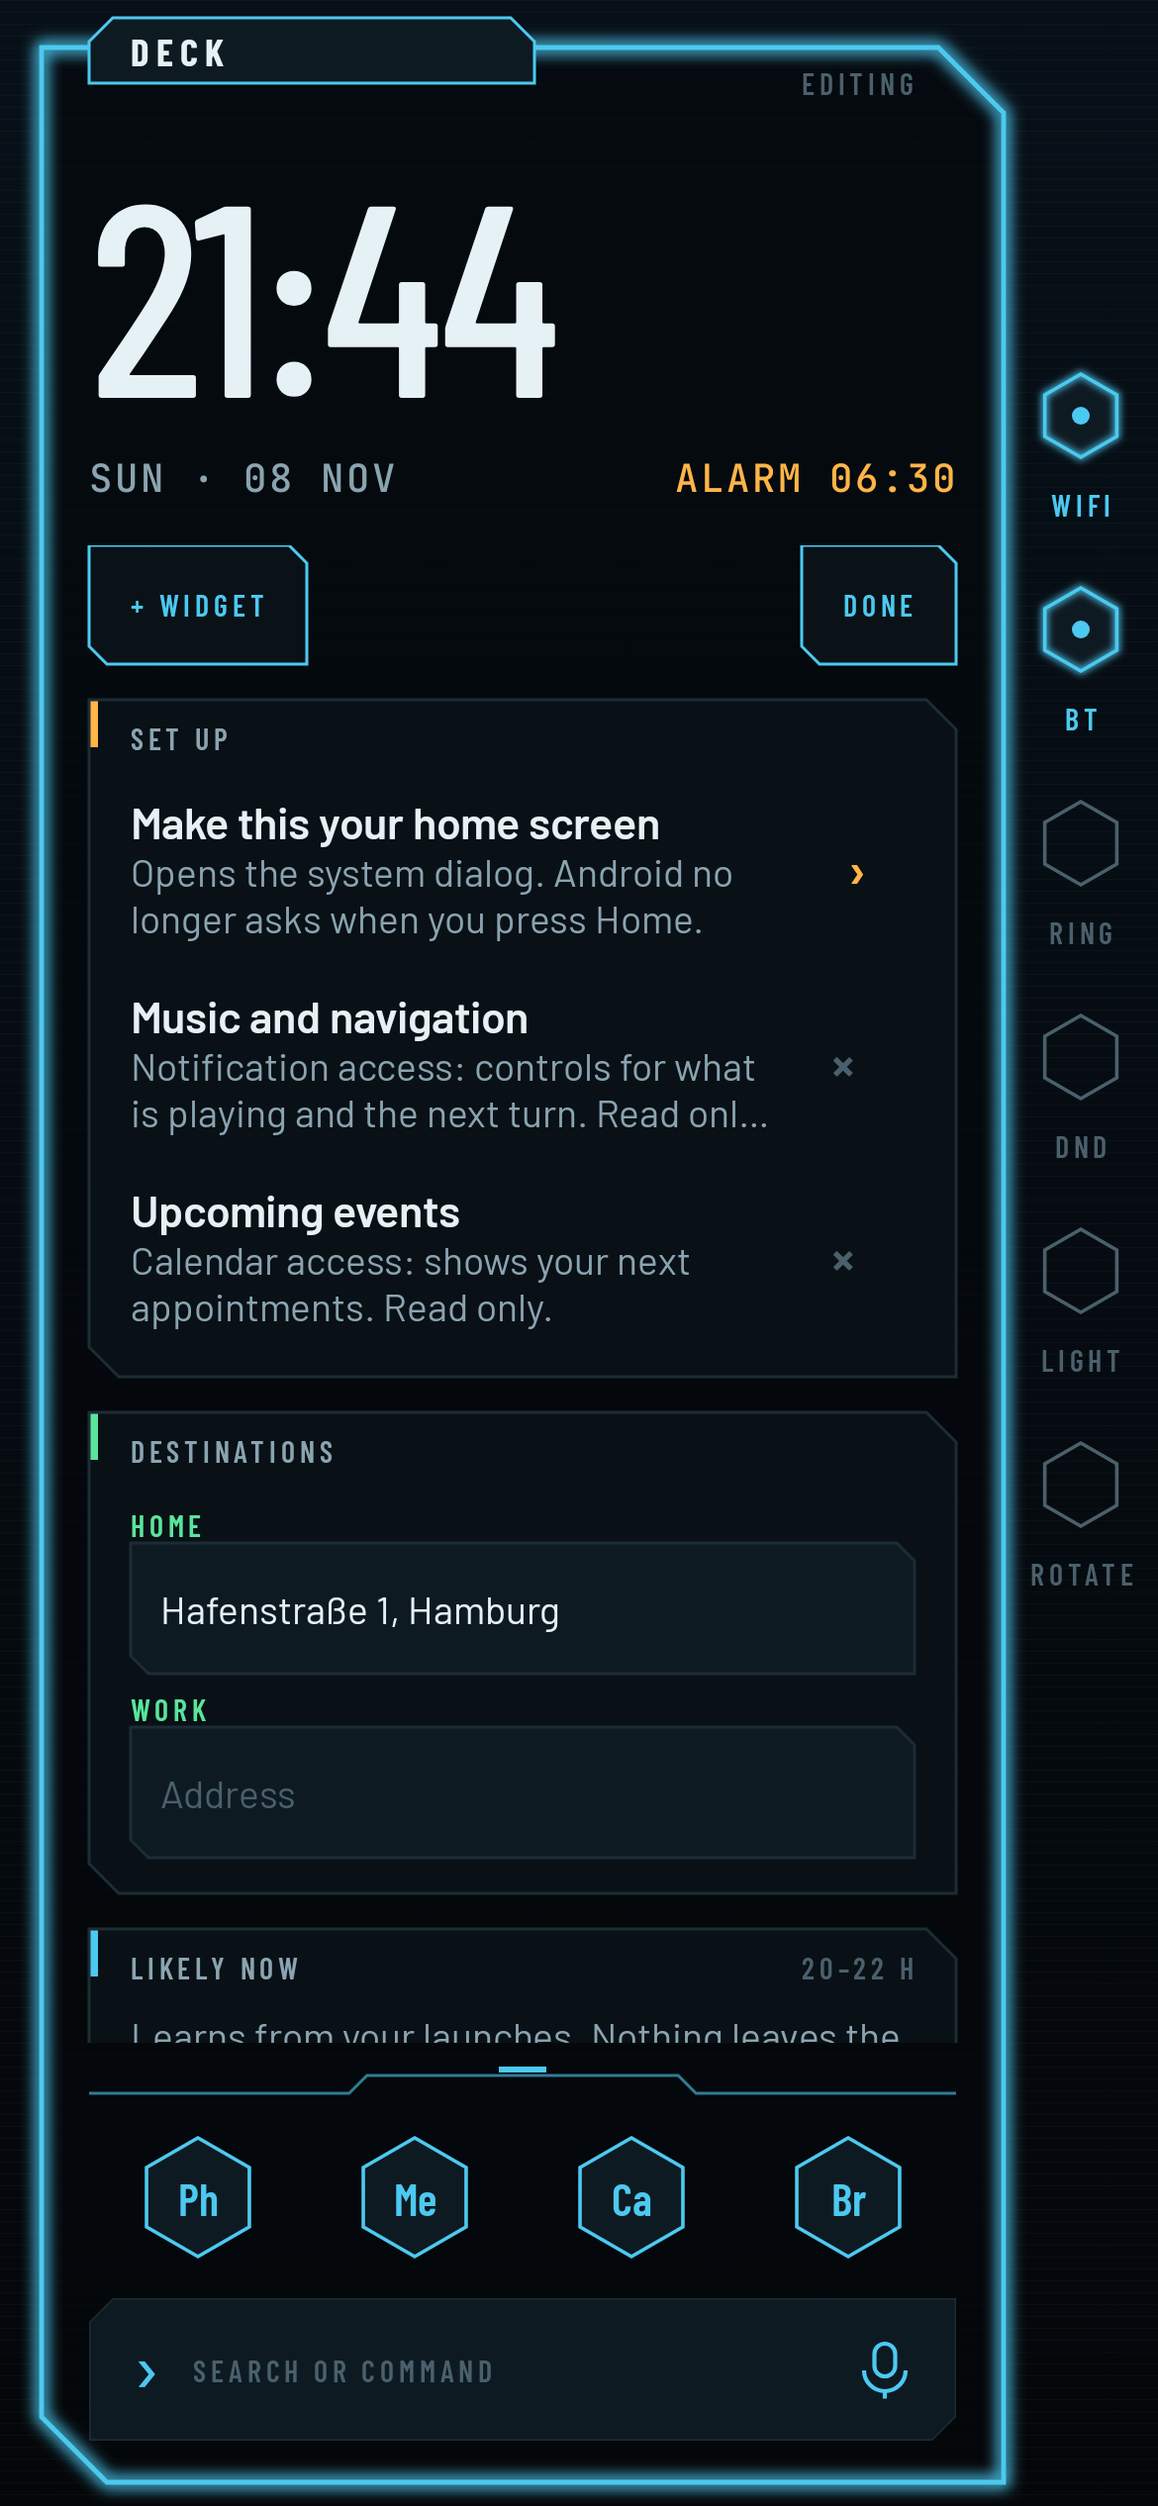
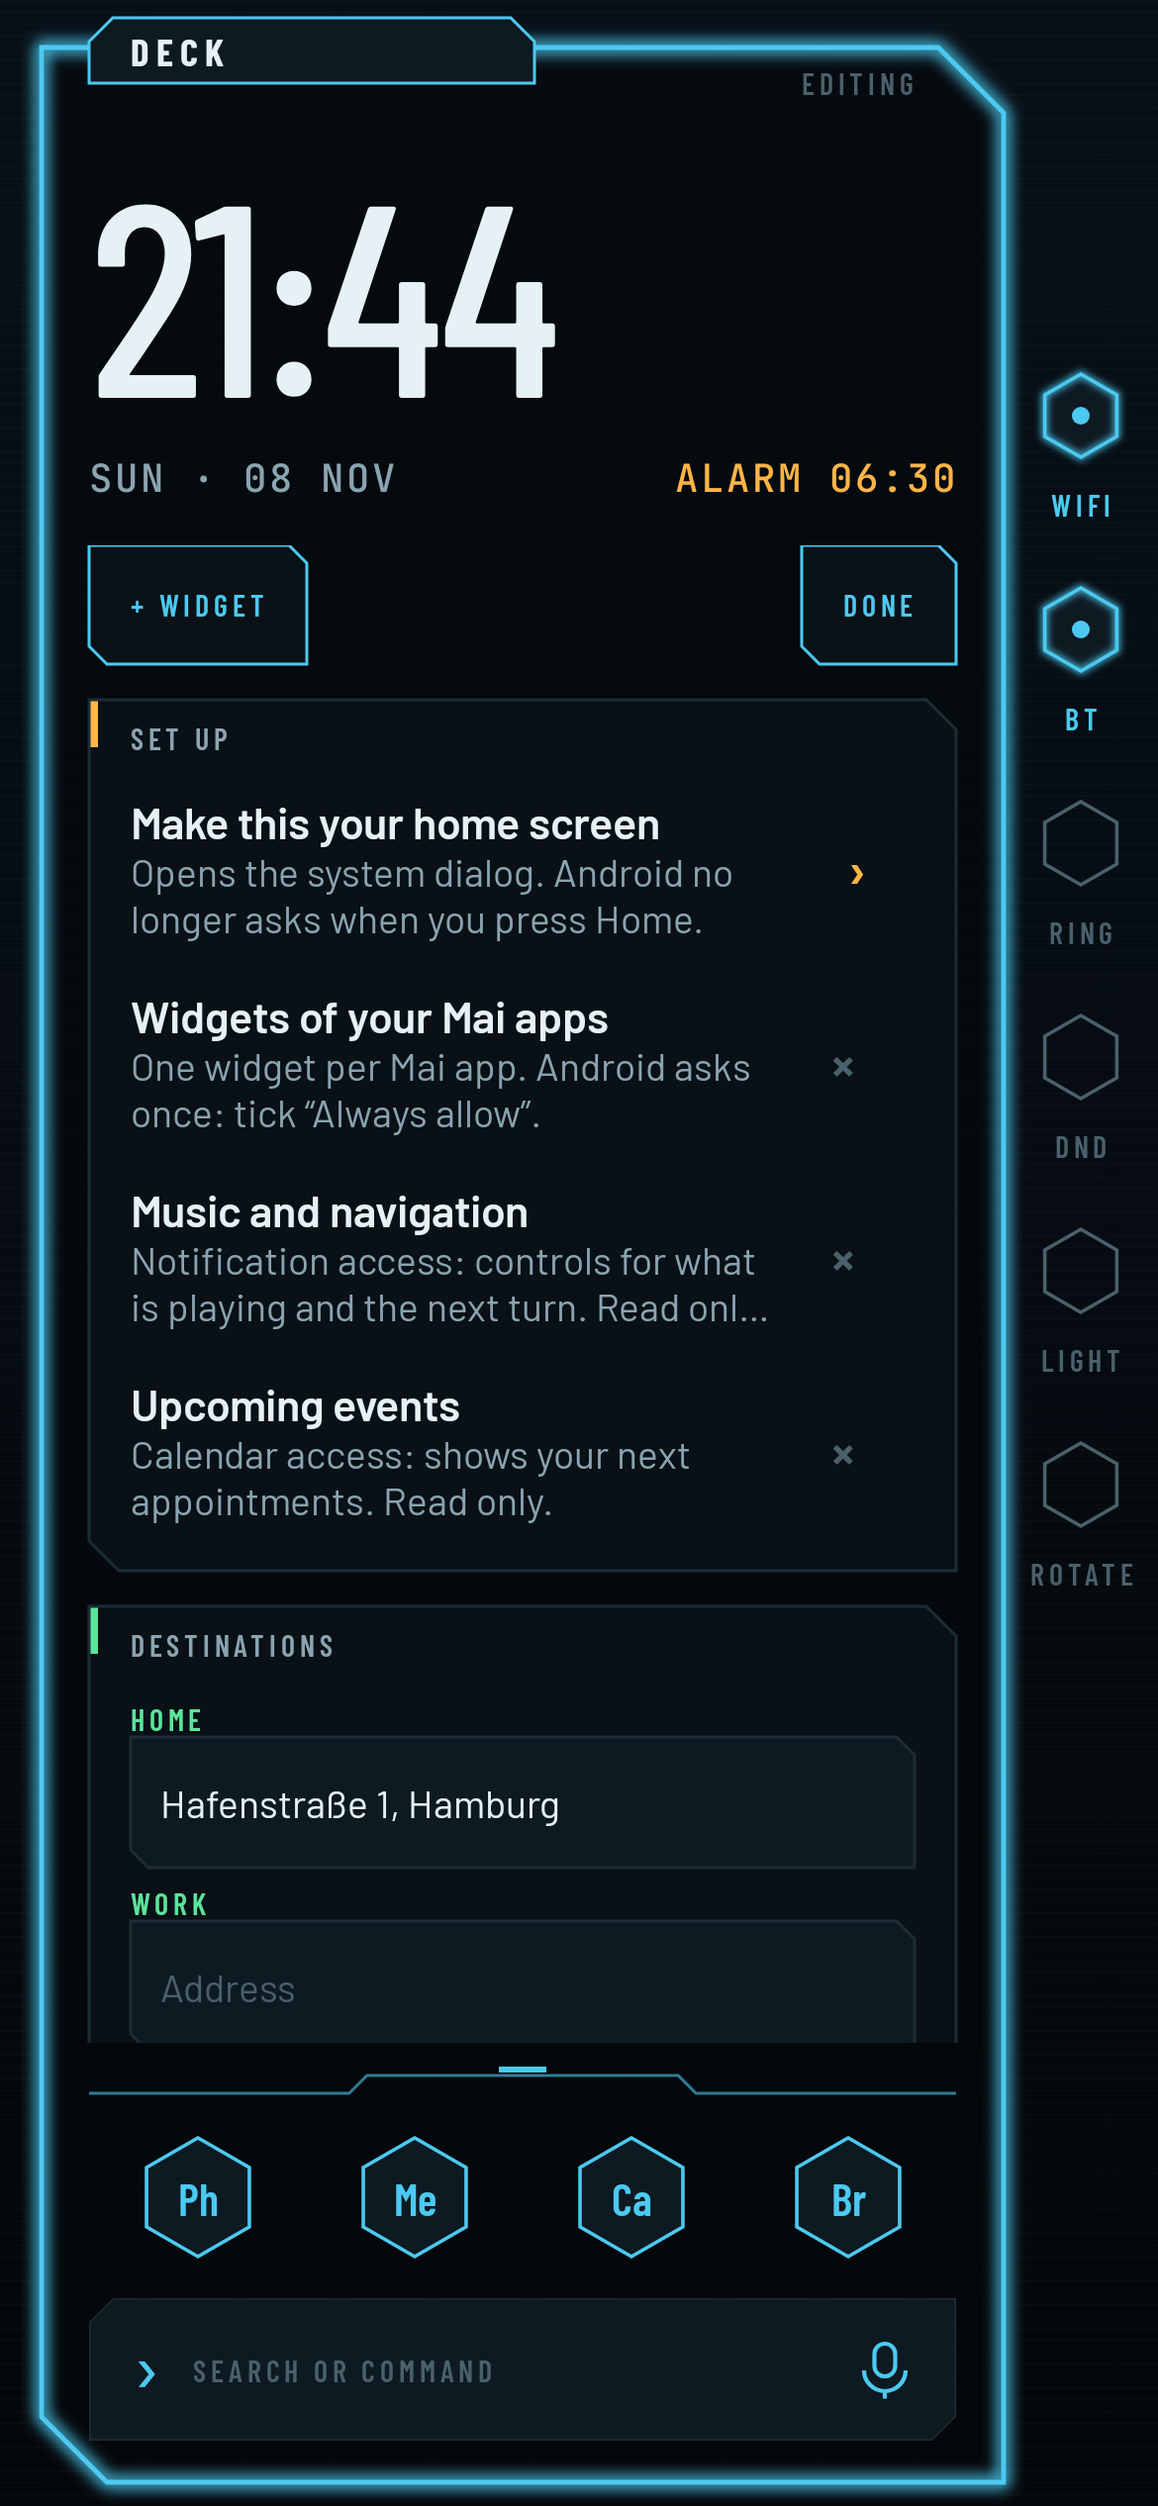
Deck: add one widget of each installed Mai app automatically
- domain/MaiWidgets: pick the preferred widget per Mai app (space.mai.*), skip apps already on the Deck or seen before; tests
- Bind silently when the launcher may; otherwise a "Widgets of your Mai apps" setup item asks once via the system dialog and chains the rest
- Removed Mai widgets stay removed (prefs key mai_widgets_seen); new Mai apps are picked up when the Deck becomes visible

Claude-Session: https://claude.ai/code/session_013mqfdzVBp2TXnYmtApBVAF

diff --git a/app/src/main/java/space/mai/mai_launcher/ui/LauncherViewModel.kt b/app/src/main/java/space/mai/mai_launcher/ui/LauncherViewModel.kt
@@ -23,6 +23,8 @@ import space.mai.mai_launcher.data.LauncherPrefs
 import space.mai.mai_launcher.domain.AppInfo
 import space.mai.mai_launcher.domain.AppKey
 import space.mai.mai_launcher.domain.AppSearch
+import space.mai.mai_launcher.domain.MaiWidgets
+import space.mai.mai_launcher.domain.ProviderRef
 import space.mai.mai_launcher.domain.Predictor
 import space.mai.mai_launcher.domain.launchCounts
 import space.mai.mai_launcher.media.MediaHub
@@ -43,7 +45,7 @@ interface LauncherHost {
 }
 
 /** Optionale Einrichtungsschritte; verschwinden, sobald erledigt oder weggeklickt. */
-enum class SetupItem { Home, Signals, Calendar }
+enum class SetupItem { Home, Signals, Calendar, MaiWidgets }
 
 /** Zustand und Aktionen des Launchers. */
 class LauncherViewModel(app: Application) : AndroidViewModel(app) {
@@ -86,9 +88,14 @@ class LauncherViewModel(app: Application) : AndroidViewModel(app) {
     val destinations = prefs.destinations
     val navigation = SignalsHub.navigation
 
-    val setup: StateFlow<List<SetupItem>> = combine(_access, prefs.dismissedSetup) { a, dismissed ->
+    /** Mai-Widgets, die nur mit Freigabe (System-Dialog) aufs Deck können. */
+    private val _maiPending = MutableStateFlow<List<ProviderRef>>(emptyList())
+    val maiPending: StateFlow<List<ProviderRef>> = _maiPending.asStateFlow()
+
+    val setup: StateFlow<List<SetupItem>> = combine(_access, prefs.dismissedSetup, _maiPending) { a, dismissed, mai ->
         buildList {
             if (!a.home) add(SetupItem.Home)
+            if (mai.isNotEmpty()) add(SetupItem.MaiWidgets)
             if (!a.signals && SetupItem.Signals.name !in dismissed) add(SetupItem.Signals)
             if (!a.calendar && SetupItem.Calendar.name !in dismissed) add(SetupItem.Calendar)
         }
@@ -124,6 +131,7 @@ class LauncherViewModel(app: Application) : AndroidViewModel(app) {
         widgets.startListening()
         refreshAccess()
         feeds.refresh()
+        autoAddMaiWidgets()
     }
 
     /** Link eines News-Eintrags im Standard-Browser öffnen. */
@@ -152,6 +160,7 @@ class LauncherViewModel(app: Application) : AndroidViewModel(app) {
             SetupItem.Home -> h.requestHomeRole()
             SetupItem.Signals -> h.openNotificationAccess()
             SetupItem.Calendar -> h.requestCalendar()
+            SetupItem.MaiWidgets -> addMaiWidgets()
         }
     }
 
@@ -165,7 +174,15 @@ class LauncherViewModel(app: Application) : AndroidViewModel(app) {
         if (!system.toggleDnd()) actions.policyAccessSettings()
     }
 
-    fun dismissSetup(item: SetupItem) = prefs.dismissSetup(item.name)
+    fun dismissSetup(item: SetupItem) {
+        if (item == SetupItem.MaiWidgets) {
+            // „Später“ heißt hier: diese Apps nicht mehr automatisch anbieten (Auswahl bleibt).
+            prefs.markMaiWidgetsSeen(_maiPending.value.map { it.packageName })
+            _maiPending.value = emptyList()
+            return
+        }
+        prefs.dismissSetup(item.name)
+    }
 
     // --- Navigation zwischen Ansichten ---
 
@@ -262,9 +279,60 @@ class LauncherViewModel(app: Application) : AndroidViewModel(app) {
         if (needsBind) host?.bindWidget(id, option.provider) ?: onWidgetBound(false) else onWidgetBound(true)
     }
 
+    /**
+     * Mai-Apps automatisch mit ihrem Standard-Widget aufs Deck legen. Klappt das
+     * Binden ohne Dialog (Launcher hat die Freigabe), geschieht es still; sonst
+     * erscheint ein Einrichtungs-Hinweis, der die Freigabe einmal anfragt.
+     */
+    fun autoAddMaiWidgets() {
+        if (pendingWidget != null) return
+        val placed = widgets.placedPackages()
+        // Schon vorhandene Mai-Widgets gelten als gesehen: einmal entfernt, kommen sie nicht wieder.
+        prefs.markMaiWidgetsSeen(placed.filter(MaiWidgets::isMai).filter { it !in prefs.maiWidgetsSeen.value })
+        val todo = MaiWidgets.pending(widgets.installedRefs(), placed, prefs.maiWidgetsSeen.value)
+        val needsDialog = mutableListOf<ProviderRef>()
+        for (ref in todo) {
+            val provider = ComponentName(ref.packageName, ref.className)
+            val (id, needsBind) = widgets.allocate(provider)
+            when {
+                needsBind -> { widgets.discard(id); needsDialog += ref }
+                // Widgets mit eigener Einrichtung nicht ungefragt öffnen; sie bleiben in der Auswahl.
+                widgets.needsConfigure(id) -> { widgets.discard(id); prefs.markMaiWidgetsSeen(listOf(ref.packageName)) }
+                else -> { widgets.commit(id); prefs.markMaiWidgetsSeen(listOf(ref.packageName)) }
+            }
+        }
+        _maiPending.value = needsDialog
+    }
+
+    /** Warteschlange für „Mai-Widgets hinzufügen“: nacheinander über den System-Dialog. */
+    private var maiQueue: ArrayDeque<ProviderRef>? = null
+
+    private fun addMaiWidgets() {
+        maiQueue = ArrayDeque(_maiPending.value)
+        nextMaiWidget()
+    }
+
+    private fun nextMaiWidget() {
+        val queue = maiQueue ?: return
+        val ref = queue.removeFirstOrNull()
+        if (ref == null) { maiQueue = null; autoAddMaiWidgets(); return }
+        prefs.markMaiWidgetsSeen(listOf(ref.packageName))
+        _maiPending.value = queue.toList()
+        val provider = ComponentName(ref.packageName, ref.className)
+        val (id, needsBind) = widgets.allocate(provider)
+        pendingWidget = id
+        // Nach „Immer erlauben“ im ersten Dialog binden die übrigen ohne Rückfrage.
+        if (needsBind) host?.bindWidget(id, provider) ?: onWidgetBound(false) else onWidgetBound(true)
+    }
+
     fun onWidgetBound(ok: Boolean) {
         val id = pendingWidget ?: return
-        if (!ok) { widgets.discard(id); pendingWidget = null; return }
+        if (!ok) {
+            widgets.discard(id); pendingWidget = null
+            // Abgelehnt: übrige Mai-Widgets nicht weiter nachfragen.
+            maiQueue?.let { q -> prefs.markMaiWidgetsSeen(q.map { it.packageName }); maiQueue = null; _maiPending.value = emptyList() }
+            return
+        }
         if (widgets.needsConfigure(id)) host?.configureWidget(id) ?: onWidgetConfigured(false) else onWidgetConfigured(true)
     }
 
@@ -272,6 +340,7 @@ class LauncherViewModel(app: Application) : AndroidViewModel(app) {
         val id = pendingWidget ?: return
         pendingWidget = null
         if (ok) widgets.commit(id) else widgets.discard(id)
+        if (maiQueue != null) nextMaiWidget()
     }
 
     override fun onCleared() {

diff --git a/app/src/main/java/space/mai/mai_launcher/domain/MaiWidgets.kt b/app/src/main/java/space/mai/mai_launcher/domain/MaiWidgets.kt
@@ -1,0 +1,43 @@
+package space.mai.mai_launcher.domain
+
+/** Ein Widget-Anbieter, nur Paket und Klasse (ohne Android-Typen, damit testbar). */
+data class ProviderRef(val packageName: String, val className: String)
+
+/**
+ * Widgets der eigenen Mai-Apps landen automatisch auf dem Deck: je App ein
+ * Standard-Widget, genau einmal. Was der Nutzer danach entfernt, bleibt weg
+ * („gesehen“-Liste, Schlüssel `mai_widgets_seen`).
+ */
+object MaiWidgets {
+    const val PREFIX = "space.mai."
+    const val LAUNCHER = "space.mai.mai_launcher"
+
+    /** Bevorzugtes Widget je App, in Deck-Reihenfolge. Klassen nie umbenennen (in den Apps). */
+    val PREFERRED: List<ProviderRef> = listOf(
+        ProviderRef("space.mai.mai_stay_in_touch", "space.mai.mai_stay_in_touch.widgets.TodayWidgetProvider"),
+        ProviderRef("space.mai.mai_doctor_hub", "space.mai.mai_doctor_hub.widgets.AppointmentWidget"),
+        ProviderRef("space.mai.mai_household", "space.mai.mai_household.widgets.ShoppingWidgetProvider"),
+        ProviderRef("space.mai.mai_fitness", "space.mai.mai_fitness.widgets.NextWorkoutWidgetProvider"),
+        ProviderRef("space.mai.mai_budget_planer", "space.mai.mai_budget_planer.widget.BudgetWidgetProvider"),
+    )
+
+    fun isMai(packageName: String) = packageName.startsWith(PREFIX) && packageName != LAUNCHER
+
+    /**
+     * Welche Widgets noch automatisch hinzukommen: je installierter Mai-App, die
+     * weder schon ein Widget auf dem Deck hat noch bereits „gesehen“ ist, das
+     * bevorzugte Widget (sonst das erste nach Klassenname). Bekannte Apps in
+     * [PREFERRED]-Reihenfolge, neue Mai-Apps danach alphabetisch.
+     */
+    fun pending(installed: List<ProviderRef>, placedPackages: Set<String>, seen: Set<String>): List<ProviderRef> {
+        val byPackage = installed.filter { isMai(it.packageName) }.groupBy { it.packageName }
+        val order = PREFERRED.map { it.packageName }
+        return byPackage.keys
+            .filter { it !in placedPackages && it !in seen }
+            .sortedWith(compareBy({ order.indexOf(it).let { i -> if (i < 0) Int.MAX_VALUE else i } }, { it }))
+            .map { pkg ->
+                val options = byPackage.getValue(pkg)
+                options.firstOrNull { it in PREFERRED } ?: options.minBy { it.className }
+            }
+    }
+}

diff --git a/app/src/test/java/space/mai/mai_launcher/domain/MaiWidgetsTest.kt b/app/src/test/java/space/mai/mai_launcher/domain/MaiWidgetsTest.kt
@@ -1,0 +1,52 @@
+package space.mai.mai_launcher.domain
+
+import org.junit.Assert.assertEquals
+import org.junit.Assert.assertTrue
+import org.junit.Test
+
+class MaiWidgetsTest {
+    private fun p(pkg: String, cls: String) = ProviderRef(pkg, "$pkg.$cls")
+
+    private val installed = listOf(
+        p("space.mai.mai_household", "widgets.ChoresWidgetProvider"),
+        p("space.mai.mai_household", "widgets.ShoppingWidgetProvider"),
+        p("space.mai.mai_household", "widgets.MealsWidgetProvider"),
+        p("space.mai.mai_fitness", "widgets.NextWorkoutWidgetProvider"),
+        p("space.mai.mai_stay_in_touch", "widgets.TodayWidgetProvider"),
+        p("com.example.weather", "Weather"),
+        p("space.mai.mai_launcher", "Self"),
+    )
+
+    @Test fun picksPreferredWidgetPerMaiAppInDeckOrder() {
+        val r = MaiWidgets.pending(installed, emptySet(), emptySet())
+        assertEquals(
+            listOf(
+                p("space.mai.mai_stay_in_touch", "widgets.TodayWidgetProvider"),
+                p("space.mai.mai_household", "widgets.ShoppingWidgetProvider"),
+                p("space.mai.mai_fitness", "widgets.NextWorkoutWidgetProvider"),
+            ),
+            r,
+        )
+    }
+
+    @Test fun skipsAppsAlreadyOnDeckOrSeen() {
+        val r = MaiWidgets.pending(installed, setOf("space.mai.mai_fitness"), setOf("space.mai.mai_stay_in_touch"))
+        assertEquals(listOf(p("space.mai.mai_household", "widgets.ShoppingWidgetProvider")), r)
+    }
+
+    @Test fun unknownMaiAppUsesFirstWidgetByClassAndComesLast() {
+        val extra = listOf(
+            p("space.mai.mai_zeta", "B"),
+            p("space.mai.mai_zeta", "A"),
+            p("space.mai.mai_alpha", "Only"),
+        )
+        val r = MaiWidgets.pending(extra + installed, emptySet(), emptySet())
+        assertEquals(p("space.mai.mai_alpha", "Only"), r[r.size - 2])
+        assertEquals(p("space.mai.mai_zeta", "A"), r.last())
+    }
+
+    @Test fun ignoresOtherAppsAndTheLauncherItself() {
+        val r = MaiWidgets.pending(installed, emptySet(), emptySet())
+        assertTrue(r.none { it.packageName == "com.example.weather" || it.packageName == MaiWidgets.LAUNCHER })
+    }
+}

diff --git a/app/src/main/java/space/mai/mai_launcher/widgets/WidgetHost.kt b/app/src/main/java/space/mai/mai_launcher/widgets/WidgetHost.kt
@@ -15,6 +15,7 @@ import androidx.core.content.edit
 import kotlinx.coroutines.flow.MutableStateFlow
 import kotlinx.coroutines.flow.StateFlow
 import kotlinx.coroutines.flow.asStateFlow
+import space.mai.mai_launcher.domain.ProviderRef
 import space.mai.mai_launcher.domain.WidgetIds
 
 /** Ein Widget-Angebot einer App für die Auswahl. */
@@ -67,6 +68,16 @@ class WidgetHost(private val context: Context) {
             WidgetOption(info.provider, info.loadLabel(pm) ?: appLabel, appLabel, cw, ch, info)
         }.sortedWith(compareBy({ it.appLabel.lowercase() }, { it.label.lowercase() }))
     }
+
+    /** Alle installierten Anbieter, nur Paket/Klasse. */
+    fun installedRefs(): List<ProviderRef> = runCatching {
+        manager.getInstalledProvidersForProfile(Process.myUserHandle())
+            .map { ProviderRef(it.provider.packageName, it.provider.className) }
+    }.getOrDefault(emptyList())
+
+    /** Pakete, die schon ein Widget auf dem Deck haben. */
+    fun placedPackages(): Set<String> =
+        _ids.value.mapNotNull { manager.getAppWidgetInfo(it)?.provider?.packageName }.toSet()
 
     fun preview(option: WidgetOption): Drawable? = runCatching {
         option.info.loadPreviewImage(context, 0) ?: option.info.loadIcon(context, 0)

diff --git a/app/src/main/java/space/mai/mai_launcher/data/LauncherPrefs.kt b/app/src/main/java/space/mai/mai_launcher/data/LauncherPrefs.kt
@@ -46,6 +46,17 @@ class LauncherPrefs(context: Context) {
         _dismissed.value = next
     }
 
+    private val _maiSeen = MutableStateFlow(prefs.getStringSet("mai_widgets_seen", emptySet()).orEmpty())
+    /** Mai-Apps, deren Widget schon einmal automatisch angeboten wurde (Paketnamen). */
+    val maiWidgetsSeen: StateFlow<Set<String>> = _maiSeen.asStateFlow()
+
+    fun markMaiWidgetsSeen(packages: Collection<String>) {
+        if (packages.isEmpty()) return
+        val next = _maiSeen.value + packages
+        prefs.edit { putStringSet("mai_widgets_seen", next) }
+        _maiSeen.value = next
+    }
+
     companion object {
         const val DOCK_SLOTS = 4
     }

diff --git a/app/src/test/java/space/mai/mai_launcher/ui/ScreenshotTest.kt b/app/src/test/java/space/mai/mai_launcher/ui/ScreenshotTest.kt
@@ -166,7 +166,7 @@ class ScreenshotTest {
                         likelyWindow = 20 to 22,
                         appCount = apps.size,
                         zone = zone,
-                        setup = listOf(SetupItem.Home, SetupItem.Signals, SetupItem.Calendar),
+                        setup = listOf(SetupItem.Home, SetupItem.MaiWidgets, SetupItem.Signals, SetupItem.Calendar),
                         destinations = listOf("Hafenstraße 1, Hamburg", ""),
                         editMode = true,
                     ),

diff --git a/app/src/main/java/space/mai/mai_launcher/ui/deck/DeckPanels.kt b/app/src/main/java/space/mai/mai_launcher/ui/deck/DeckPanels.kt
@@ -70,6 +70,7 @@ fun SetupPanel(items: List<SetupItem>, onItem: (SetupItem) -> Unit, onDismiss: (
                 SetupItem.Home -> R.string.setup_home to R.string.setup_home_body
                 SetupItem.Signals -> R.string.setup_signals to R.string.setup_signals_body
                 SetupItem.Calendar -> R.string.setup_calendar to R.string.setup_calendar_body
+                SetupItem.MaiWidgets -> R.string.setup_mai_widgets to R.string.setup_mai_widgets_body
             }
             Row(
                 Modifier

diff --git a/CLAUDE.md b/CLAUDE.md
@@ -26,8 +26,12 @@ Systemsprache. Paket `space.mai.mai_launcher`, CI-Artefakt `mai-launcher.apk`.
   `mai_launcher_log_key` und Dateiname `launch_log.bin` nie ändern; neue
   Formate nur mit neuer Versionsnummer und Lesbarkeit der alten.
 - **Einstellungen** (`LauncherPrefs`, Schlüssel `dock_0..3`, `dest_home`, `dest_work`, `setup_dismissed`,
-  `widgets`, `feeds`) tolerant lesen,
+  `widgets`, `feeds`, `mai_widgets_seen`) tolerant lesen,
   Schlüssel nie umbenennen.
+
+- **Mai-Widgets** (`domain/MaiWidgets.kt`): Paket-Präfix `space.mai.` und die
+  bevorzugten Widget-Klassen der anderen Mai-Apps. Benennt eine App ihre
+  Widget-Klasse um, hier mitziehen (sonst greift nur der Rückfall).
 
 ## Design-System (`design/`)
 

diff --git a/README.md b/README.md
@@ -13,7 +13,8 @@ Concept: [`project-docs/KONZEPT.md`](project-docs/KONZEPT.md)
 ## Status
 
 Deck (home) with now playing, navigation (next turn from the maps app),
-upcoming events, quick destinations, hosted Android widgets, a news panel
+upcoming events, quick destinations, hosted Android widgets (one widget of
+each installed Mai app is added automatically), a news panel
 for your own RSS/Atom feeds (HTTPS only, text only) and an edit mode;
 Index (all apps, search, A–Z rail, "likely now"); side rail for Wi-Fi, BT,
 sound mode (ring/vibrate/mute), DND, torch and rotation. Every permission is
